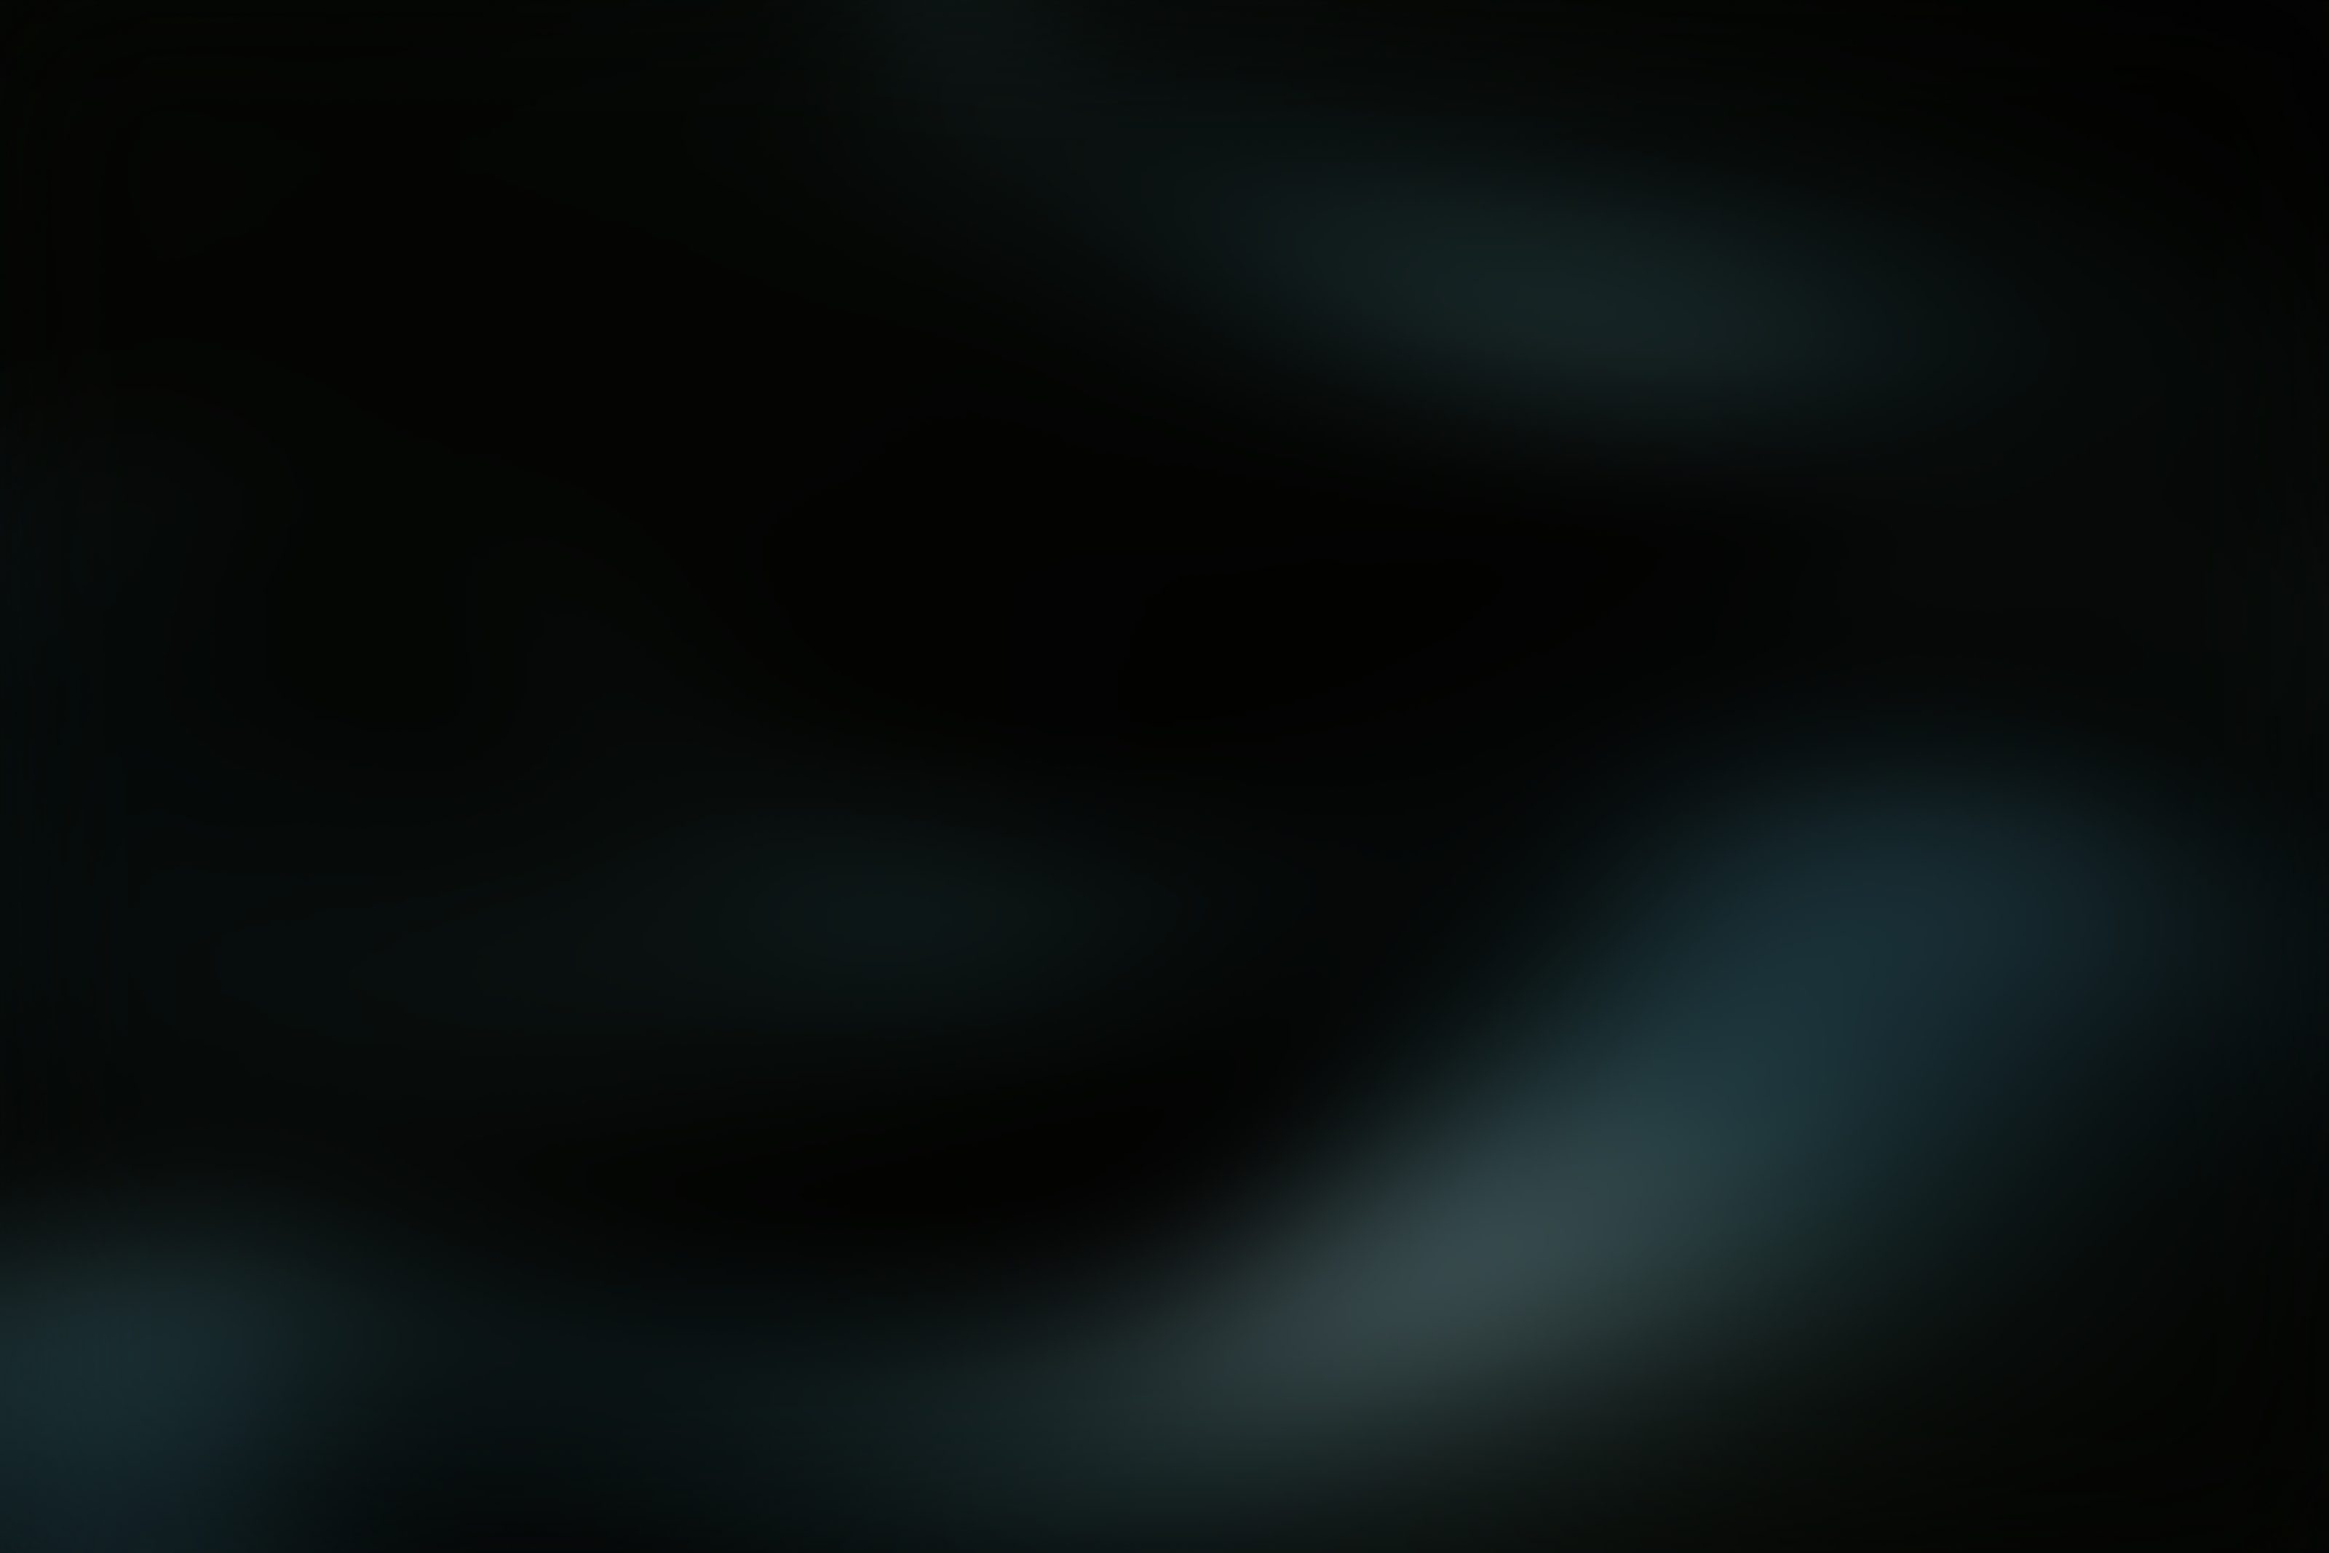
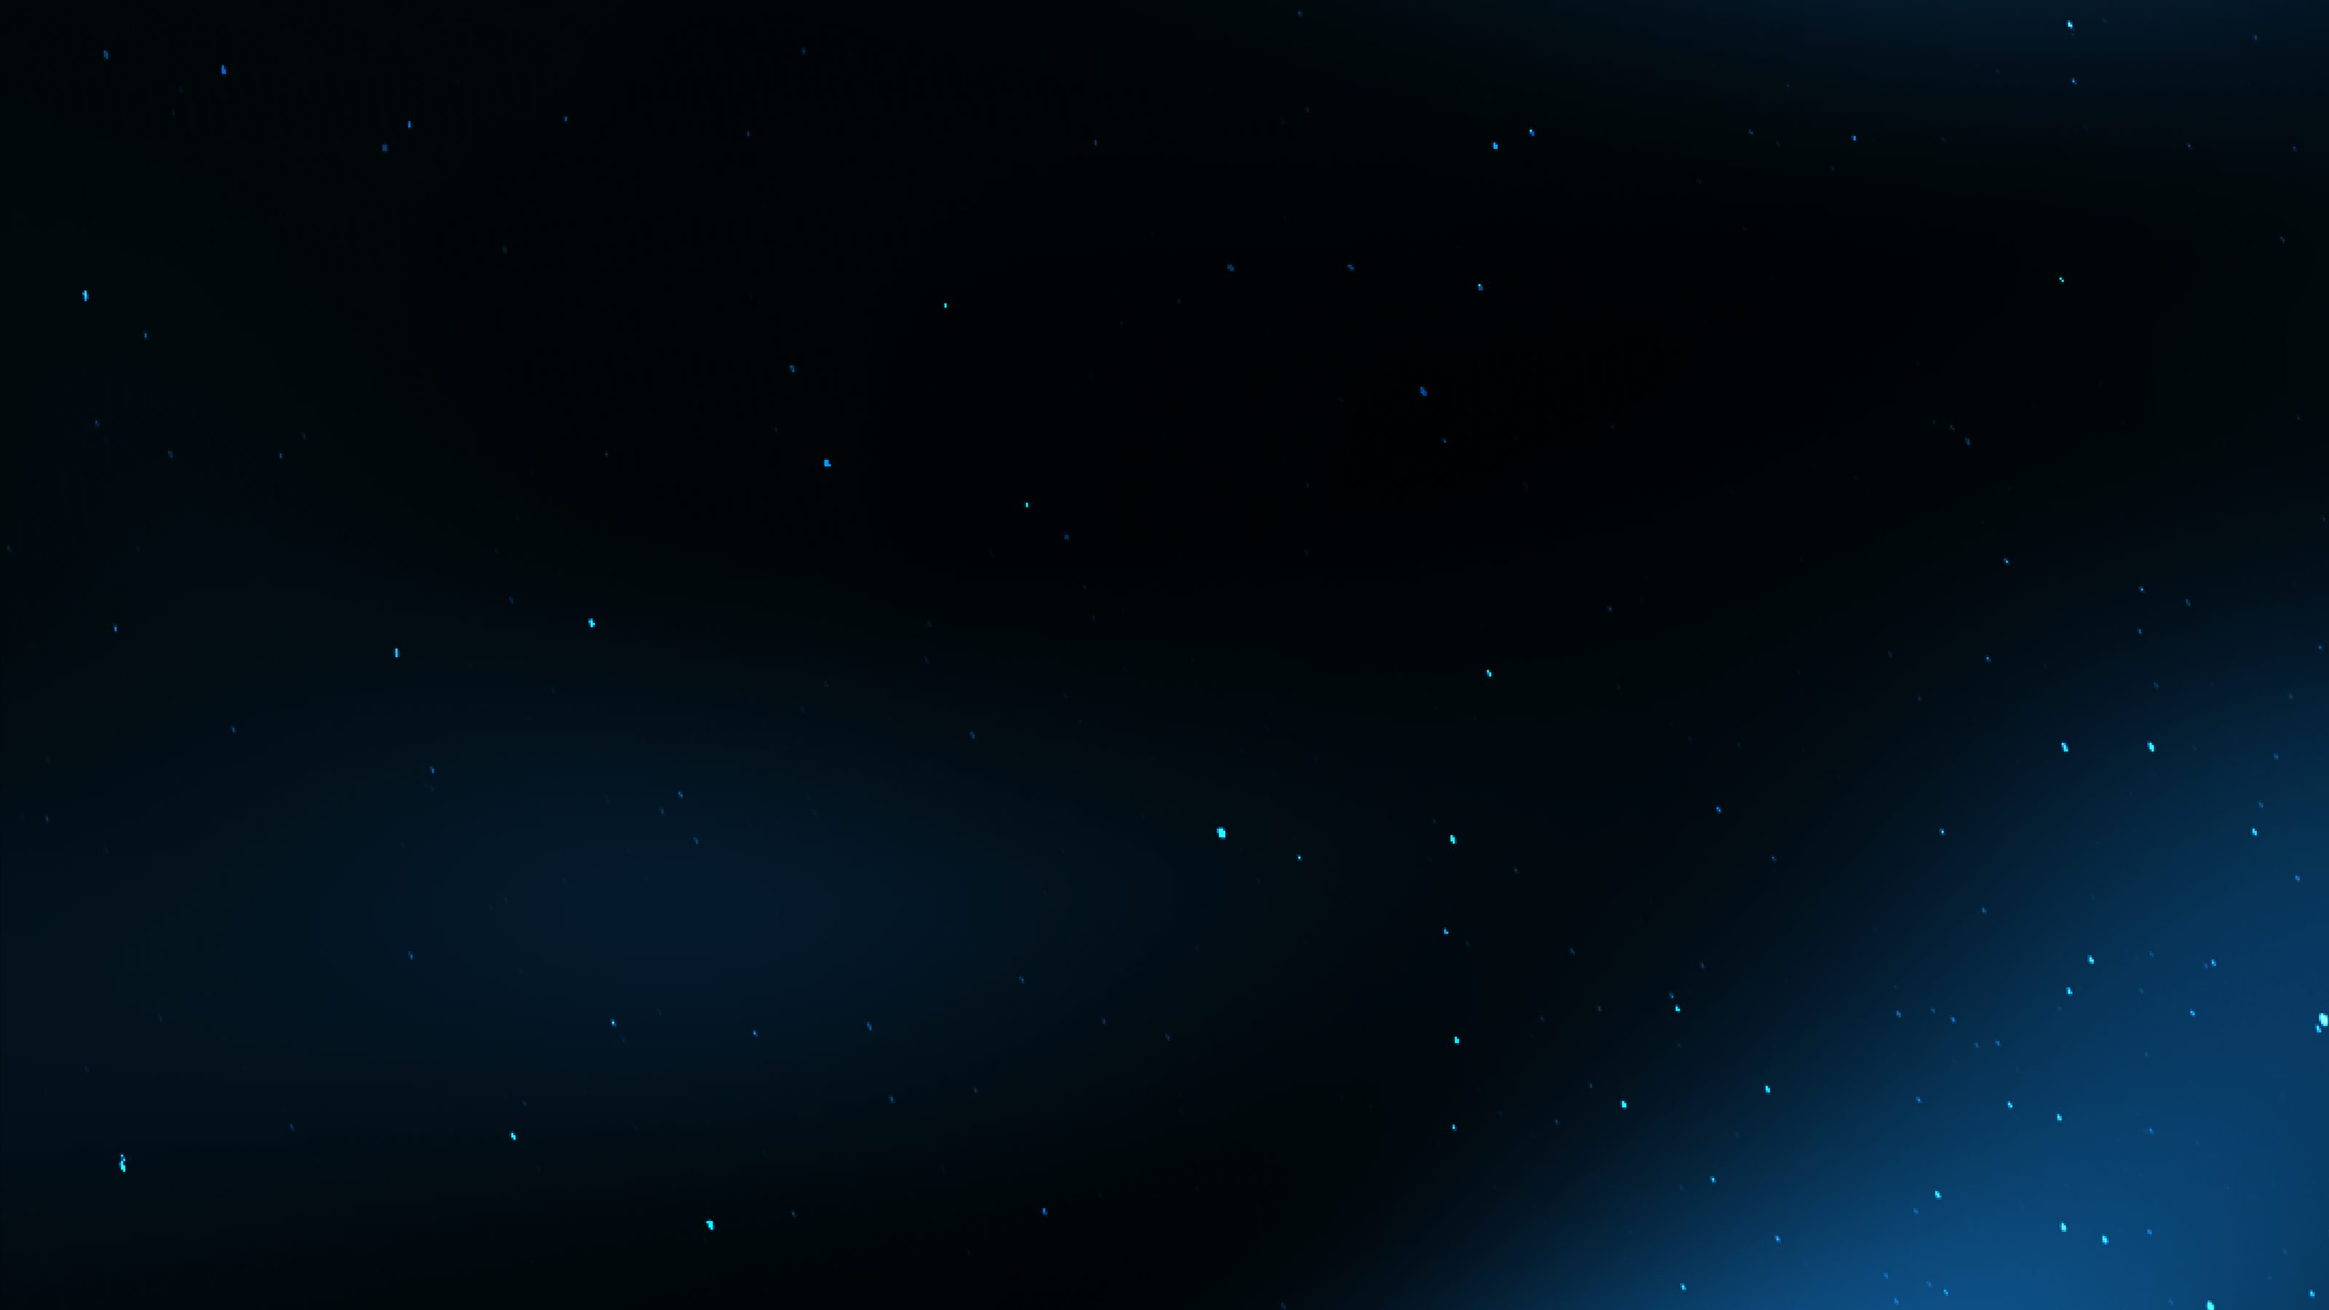
FAQ ground: the new field, and the stars stop carrying their own edge
assets/bgrefka.png replaces the first field. 6.7MB of PNG at 4320 x 2430
in; assets/images/faq-bg.jpg out, 59KB at 3200 wide, which is more than the
sheet asks for at any window this frame is drawn at.

The seam in the lower left was the stars, and it was mine: I was carrying
the box rather than the pattern. A box that is moved takes its own edge
with it, and that edge comes into the window from the side it is moving
away from.

Turning the box would answer it — that is what the field does, and why the
field never showed one. But a box big enough to turn is three times the
frame's area, and every pixel of it is dodged on every frame. The stars are
pinned to the frame instead and the pattern moves inside them, carried by
exactly one tile in each direction so the loop closes on a field that has
no edge anywhere in it. There is nothing to bring in, and the least
possible area to blend.

Measured on the same scroll, twice each: 57/49 fps pinned against 53/39
turning, with 59/51 for pinned and still. The dodge is what this section
costs — 51 against 61 with it off — so the smaller the area it covers the
better, and pinned is as small as it goes.

Two more things off the same measurement. Every question's transform and
opacity are written only when they have moved: a question stands still for
a third of every step, and a style set to the value it already holds still
costs the whole section a recalculation. The label's marks are written to
two places for the same reason.
[…]

diff --git a/css/style.css b/css/style.css
@@ -2388,15 +2388,19 @@ html.is-held [data-scene='hero'] button {
 
 /* --- the ground ---
    438:716 — the field, and 438:720 the stars over it. The frame crops the
-   field to 2564 x 1710 centred on its 1440 x 810, which is 1.78 of its own
-   width; here it is a square instead, because it turns. A rectangle only
-   covers a turning frame while its short side clears the frame's diagonal,
-   and at the frame's own proportions that is true by 29px and stops being
-   true on any window taller than about 1440 x 940. A square of 130vmax
-   clears it by 110 at any shape, and `cover` holds the field's own aspect
-   inside it: the window then sees the middle 51% of its width against the
-   frame's 56%, which on a field this diffuse is not a difference you can
-   point at.
+   field to 2564 x 1710 centred on its 1440 x 810; here both are large
+   centred squares instead, because they turn.
+
+   Neither of them is carried across the frame. A tile that is moved takes
+   its own box with it, and the edge of that box comes into the window from
+   the side it is moving away from — which is the seam that was showing in
+   the lower left. Turned about the middle instead, a centred square has no
+   edge to bring in, and a tiled field has none of its own at all.
+
+   Their rims are faded out even so. Whether a square covers a turning frame
+   depends on the frame's proportions, and under --frame-scale the frame can
+   be a good deal taller than the window it is drawn in; a rim that fades has
+   nothing to show whatever the shape, where a cut one has to be proved.
    ------------------------------------------------------------------------- */
 
 .faq__glow {
@@ -2404,38 +2408,61 @@ html.is-held [data-scene='hero'] button {
   inset: 0;
   z-index: 0;
   overflow: hidden;
+  /* the field's own deep tone, so a faded rim lands on it rather than on black */
+  background: #020d16;
   /* the ground the stars are dodged against, and nothing behind it */
   isolation: isolate;
   pointer-events: none;
 }
 
+/*
+ * The field turns. Its box is a large centred square rather than the frame,
+ * because a rectangle only covers a turning frame while its short side
+ * clears the frame's diagonal — and its rim is faded even so, since whether
+ * a square covers depends on the frame's proportions and under
+ * --frame-scale the frame can be a good deal taller than the window it is
+ * drawn in. A rim that fades has nothing to show whatever the shape.
+ */
 .faq__glowSheet {
   position: absolute;
   top: 50%;
   left: 50%;
   display: block;
-  width: 130vmax;
-  height: 130vmax;
+  width: 170vmax;
+  height: 170vmax;
   background: url('../assets/images/faq-bg.jpg') center / cover no-repeat;
+  -webkit-mask-image: radial-gradient(closest-side, #000 80%, rgba(0, 0, 0, 0) 100%);
+  mask-image: radial-gradient(closest-side, #000 80%, rgba(0, 0, 0, 0) 100%);
   transform: translate(-50%, -50%);
   will-change: transform;
   animation: faq-glow-turn 140s linear infinite;
 }
 
 /*
+ * The stars do not. Their box is the frame exactly, and what moves is the
+ * pattern inside it — a tile carried by precisely one of itself in each
+ * direction, so the loop closes on a field that has no edge anywhere in it.
+ *
+ * This is the part that had a seam in it. Carrying the box instead of the
+ * pattern takes the box's own edge into the window from the side it is
+ * moving away from; turning the box would answer that, but a box big enough
+ * to turn is three times the frame's area, and all of it is dodged every
+ * frame. Pinned to the frame there is no edge to bring in and the least
+ * possible area to blend: measured at 57/49 fps against 53/39 for the
+ * turning box, on the same scroll.
+ *
  * Tiled well under its own size rather than covering, as the use-cases
  * section's are: at full size the stars come out several times the dots the
- * frame draws. A field of dots has no edge to give a seam away.
+ * frame draws.
  */
 .faq__stars {
   position: absolute;
   inset: 0;
-  background: url('../assets/images/strs.png') 0 0 / 38% auto repeat;
+  background: url('../assets/images/strs.png') 0 0 / 38vmax auto repeat;
   mix-blend-mode: color-dodge;
-  /* the field under these is far darker than the use-cases blue; less held back */
-  opacity: 0.75;
-  will-change: transform;
-  animation: faq-stars-drift 90s linear infinite;
+  /* dodge over a field with this much blue in it runs out to cyan; held back */
+  opacity: 0.5;
+  animation: faq-stars-drift 150s linear infinite;
 }
 
 @keyframes faq-glow-turn {
@@ -2447,17 +2474,13 @@ html.is-held [data-scene='hero'] button {
   }
 }
 
-/*
- * The stars do not turn with the field — they are a flat tile, and turning
- * one shows its corners. They are carried across it instead, by exactly one
- * tile, so the loop closes on itself with nothing to see.
- */
+/* one tile across and one down — 4320 x 2430 is 38 x 21.375 of vmax */
 @keyframes faq-stars-drift {
   from {
-    transform: translate(0, 0);
+    background-position: 0 0;
   }
   to {
-    transform: translate(-38%, -21.4%);
+    background-position: -38vmax -21.375vmax;
   }
 }
 

diff --git a/js/scene.js b/js/scene.js
@@ -2594,7 +2594,11 @@
     function marks(n, on) {
       if (!labels[n]) return;
       var sq = labels[n].querySelectorAll('.faq__square');
-      for (var i = 0; i < sq.length; i++) sq[i].style.opacity = String(on);
+      /* ...and to two places, so a scrub does not write on every frame */
+      var v = (+on).toFixed(2);
+      for (var i = 0; i < sq.length; i++) {
+        if (sq[i].style.opacity !== v) sq[i].style.opacity = v;
+      }
     }
 
     /*
@@ -2738,10 +2742,18 @@
          */
         var deg = -d * FAQ_STEP;
         var roll = FAQ_ROLL * d * (i % 2 ? 1 : -1);
-        el.style.transform =
+        /*
+         * Written only when they have moved. A question is standing still for
+         * more of this scroll than it is turning — the hold is a third of
+         * every step — and a style set to the value it already holds still
+         * costs the whole section a recalculation.
+         */
+        var turn =
           'translateZ(' + -FAQ_RADIUS + 'px) rotateX(' + deg.toFixed(2) + 'deg) translateZ(' +
           FAQ_RADIUS + 'px) rotateZ(' + roll.toFixed(2) + 'deg)';
-        el.style.opacity = clamp01(1 - Math.abs(d)).toFixed(3);
+        if (el.style.transform !== turn) el.style.transform = turn;
+        var lit = clamp01(1 - Math.abs(d)).toFixed(3);
+        if (el.style.opacity !== lit) el.style.opacity = lit;
       }
 
       /*
